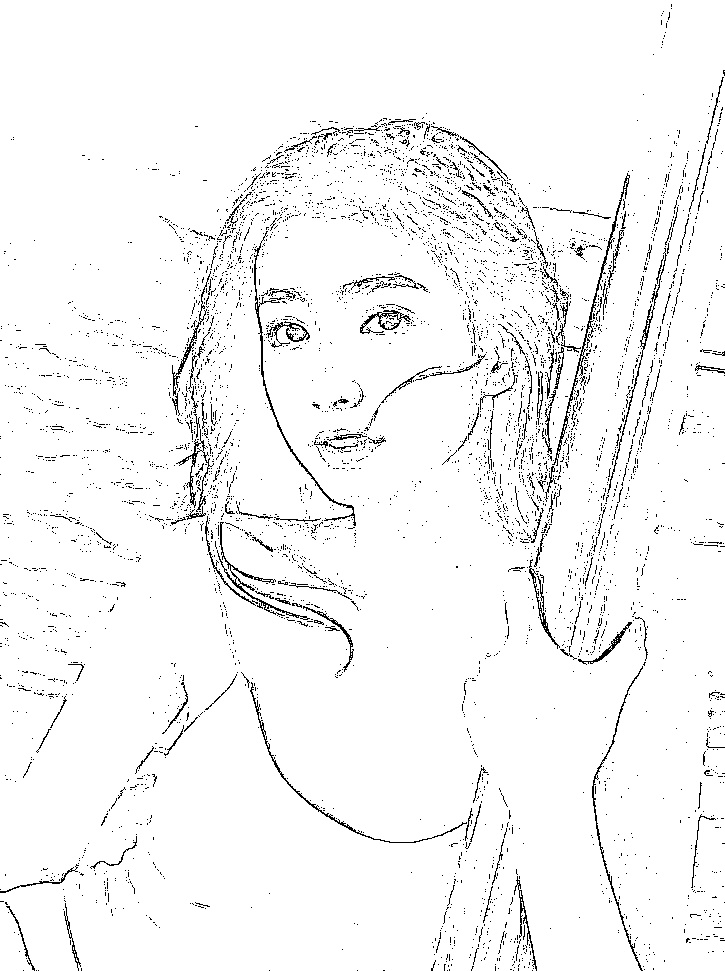
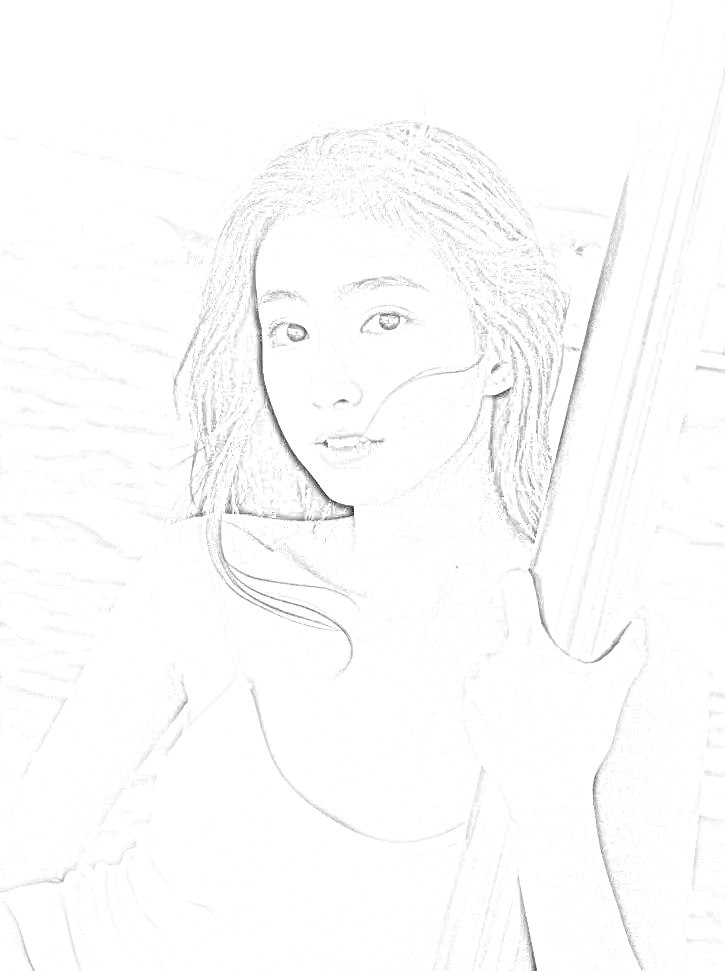
完成v3.0版本

diff --git a/写实风格素描-v3.0.py b/写实风格素描-v3.0.py
@@ -6,6 +6,8 @@
 三、保存转换后的图片
 
 经过『v1.0版本』和『v2.0版本』试验，使用上面提到的中值滤波函数cv2.medianBlur()进行模糊化操作最终得到的素描图效果并不好，这里我们尝试使用高斯滤波进行图片模糊化
+其中，参数ksize表示高斯核的大小，sigmaX和sigmaY分别表示高斯核在 X 和 Y 方向上的标准差。
+使用cv2.divide()方法对原图和模糊图像进行融合，cv2.divide()本质上进行的是两幅图像素级别的除法操作，其得到的结果可以简单理解为两幅图之间有明显差异的部分。
 '''
 
 import cv2
@@ -13,13 +15,10 @@ import cv2
 src_image = './src_image/xiao.jpeg'
 img_rgb = cv2.imread(src_image)
 img_gray = cv2.cvtColor(img_rgb, cv2.COLOR_RGB2GRAY)
-
-img_gray = cv2.medianBlur(img_gray, 5)
-img_edge = cv2.adaptiveThreshold(img_gray, 255, cv2.ADAPTIVE_THRESH_MEAN_C, cv2.THRESH_BINARY, blockSize=3, C=2)
-
-img_blur = cv2.GaussianBlur(img_gray, ksize=(21, 21),sigmaX=0, sigmaY=0)
-cv2.divide(img_gray, img_blur, scale=255)
-
+# img_gray = cv2.medianBlur(img_gray, 5)
+img_blur = cv2.GaussianBlur(img_gray, ksize=(21, 21), sigmaX=0, sigmaY=0)
+img_edge = cv2.divide(img_gray, img_blur, scale=255)
+# img_edge = cv2.adaptiveThreshold(img_gray, 255, cv2.ADAPTIVE_THRESH_MEAN_C, cv2.THRESH_BINARY, blockSize=3, C=2)
 
 dest_image = "./pic/3.jpg"
 cv2.imwrite(dest_image, img_edge)

diff --git a/demo.py b/demo.py
@@ -5,14 +5,20 @@ import cv2
 ima_path = "./src_image/xiao.jpeg"
 img_rgb = cv2.imread(ima_path)
 img_gray = cv2.cvtColor(img_rgb, cv2.COLOR_RGB2GRAY)  # 将读取的图片转化为灰度图
-img_gray = cv2.medianBlur(img_gray, 5)
+# img_gray = cv2.medianBlur(img_gray, 5)
+img_blur = cv2.GaussianBlur(img_gray, ksize=(21, 21), sigmaX=0, sigmaY=0)
+
 # 使用高斯滤波进行图片模糊化
 # 参数ksize表示高斯核的大小，sigmaX和sigmaY分别表示高斯核在 X 和 Y 方向上的标准差。
-img_blur = cv2.GaussianBlur(img_gray, ksize=(21, 21),sigmaX=0, sigmaY=0)
 
 
 # 二、使用adaptiveThreshold()方法对图片进行二值化操作，函数中的参数大多用于设置自适应二值化的算法和阈值等。
 img_edge = cv2.adaptiveThreshold(img_gray, 255, cv2.ADAPTIVE_THRESH_MEAN_C, cv2.THRESH_BINARY, blockSize=3, C=2)
+# img_edge = cv2.adaptiveThreshold(img_gray, 255,
+#                                  cv2.ADAPTIVE_THRESH_MEAN_C,
+#                                  cv2.THRESH_BINARY, blockSize=3, C=2)
+# img_blur = cv2.GaussianBlur(img_gray, ksize=(21, 21),sigmaX=0, sigmaY=0)
+cv2.divide(img_gray, img_blur, scale=255)
 
 # 三、保存转换后的图片
 dest_image = './pic/qqq.jpg'
